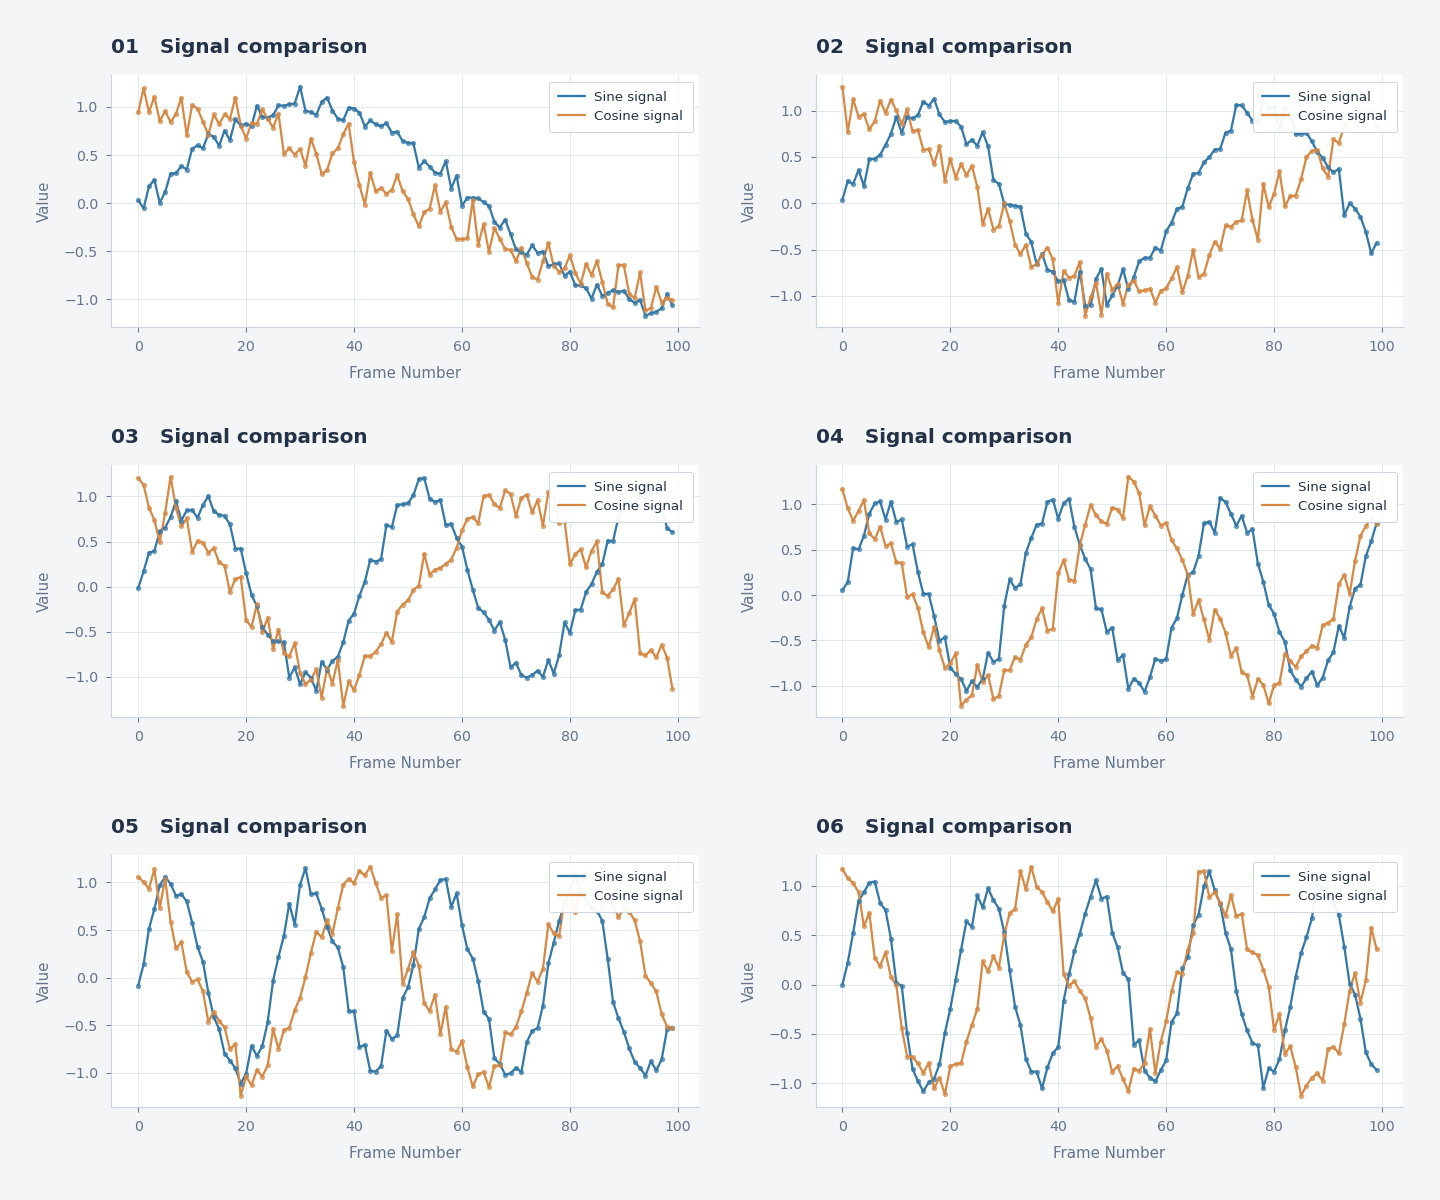
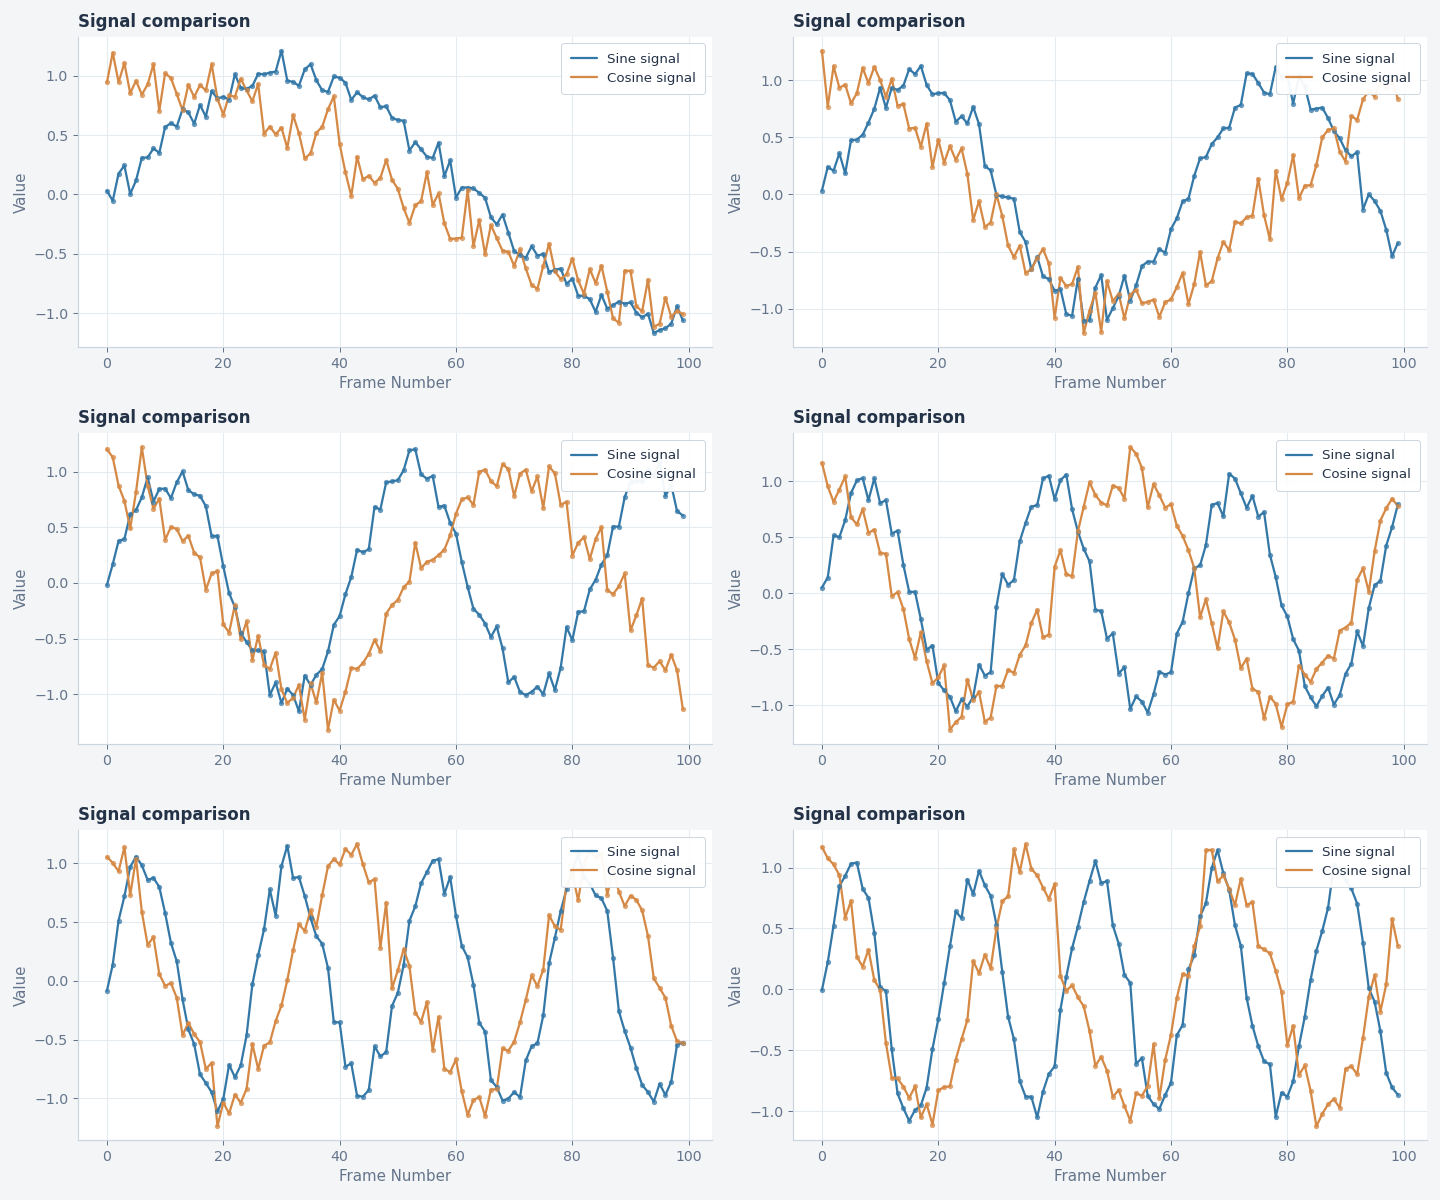
style: expand plot panels and simplify demo headings

diff --git a/interactive_plotting/core.py b/interactive_plotting/core.py
@@ -1106,7 +1106,7 @@ def create_interactive_plot(series: Sequence[SeriesData]) -> PlotSession:
                     None,
                 )
                 if panel_title:
-                    ax.set_title(panel_title, pad=13, fontsize=12,
+                    ax.set_title(panel_title, pad=6, fontsize=10,
                                  fontweight="semibold", color=TEXT,
                                  fontfamily=families)
                     ax.title.set_horizontalalignment("left")
@@ -1123,7 +1123,7 @@ def create_interactive_plot(series: Sequence[SeriesData]) -> PlotSession:
                 legend.set_draggable(True)
                 legends.append(legend)
 
-        figure.tight_layout(pad=2.2, h_pad=2.6, w_pad=2.5)
+        figure.tight_layout(pad=0.8, h_pad=1.0, w_pad=1.0)
         dispatcher = FigureDispatcher(figure, controllers, axes)
         return PlotSession(figure, tuple(controllers), tuple(axes), dispatcher)
     except Exception:

diff --git a/interactive_plotting/demo.py b/interactive_plotting/demo.py
@@ -30,7 +30,7 @@ def make_demo_series(seed=None) -> list[SeriesData]:
                     label="Sine signal",
                     panel=panel,
                     color="#3478A8",
-                    panel_title=f"{signal_number:02d}   Signal comparison",
+                    panel_title="Signal comparison",
                 ),
                 SeriesData(
                     frames=frames,
@@ -38,7 +38,7 @@ def make_demo_series(seed=None) -> list[SeriesData]:
                     label="Cosine signal",
                     panel=panel,
                     color="#D58945",
-                    panel_title=f"{signal_number:02d}   Signal comparison",
+                    panel_title="Signal comparison",
                 ),
             ]
         )

diff --git a/interactive_plotting/style.py b/interactive_plotting/style.py
@@ -31,12 +31,12 @@ def style_axes(axis: Axes, families: list[str]) -> None:
         spine.set_color(BORDER)
         spine.set_linewidth(0.7)
     axis.tick_params(axis="both", colors=MUTED, labelsize=8.5, length=3,
-                     width=0.6, pad=5)
+                     width=0.6, pad=3)
     for coordinate_axis in (axis.xaxis, axis.yaxis):
         coordinate_axis.label.set_fontfamily(families)
         coordinate_axis.label.set_fontsize(9)
         coordinate_axis.label.set_color(MUTED)
-        coordinate_axis.labelpad = 7
+        coordinate_axis.labelpad = 3
         coordinate_axis.offsetText.set_fontfamily(families)
         coordinate_axis.offsetText.set_fontsize(8.5)
         coordinate_axis.offsetText.set_color(MUTED)

diff --git a/openspec/changes/refine-plot-visual-design/design.md b/openspec/changes/refine-plot-visual-design/design.md
@@ -12,7 +12,7 @@
 
 1. 采用轻量分析仪表风格：画布候选色 #F3F5F7、绘图区白色、正文 #243247、辅助文字 #64748B、网格 #E5EAF0；演示系列采用 #3478A8 与 #D58945。颜色可在视觉验收中微调。相比深色主题，这种风格更适合日间分析与导出打印。保留焦点金色圆环。
 2. 通过内部样式常量或小型 helper 统一 artist 属性，不调用全局 plt.style.use。字体使用 DejaVu Sans，中文按已安装字体选择 Microsoft YaHei、SimHei、PingFang SC 或 Noto Sans CJK SC 等回退；不硬编码字体文件位置。必要的 rc_context 只覆盖构建阶段，并验证后续 tooltip 的字体不依赖该临时上下文。
-3. 标题左对齐并适度加粗，弱化上右边框，细实线网格置于数据后方；降低散点视觉权重，保持圆形数据标记和既有 6 px 命中范围。tooltip 使用白色不透明背景、浅边框和清晰文字，保留 Frame/Value 与拖动逻辑。
+3. 标题左对齐并适度加粗；按用户试用反馈，标题缩小为 10 pt、标题间距减为 6 pt，演示标题只保留 Signal comparison，不添加序号。收紧 tight_layout 的外边距与面板间距，以及轴标签/刻度的间距，保留所有坐标说明；窗口尺寸与数据范围不变。弱化上右边框，细实线网格置于数据后方；降低散点视觉权重，保持圆形数据标记和既有 6 px 命中范围。tooltip 使用白色不透明背景、浅边框和清晰文字，保留 Frame/Value 与拖动逻辑。
 4. 未指定 line_color 时使用 item.color，显式 line_color/line_alpha 原样保留。只修改演示系列标签与配色，不修改 SeriesData 公共字段默认值。演示标签使用有意义的系列名称，不继续写失真的 red/blue 字样。
 5. 按面板数设置合理初始尺寸和间距，去掉 demo 中与核心冲突的重复布局处理。优先保留现有静态布局方式，避免持续 constrained_layout 在放大时重排 axes。布局捕获必须位于最终初始排版之后；尽量不新增图级装饰，避免放大视图重叠。
 6. 事件顺序保持现状：工具栏活动/正在拖 tooltip 时先处理互斥；图例命中优先，其次 tooltip 命中，再处理 axes 双击与数据点点击。移动事件保持工具栏、图例拖动、tooltip 拖动优先，再进行悬停。样式 helper 不注册事件，也不修改键盘目标。

diff --git a/openspec/changes/refine-plot-visual-design/tasks.md b/openspec/changes/refine-plot-visual-design/tasks.md
@@ -17,3 +17,8 @@
 - [x] 3.1 交付相同种子的前后对比图与验证报告；逐项列出测试、性能冒烟、OpenSpec、GUI 状态，以及类型检查、Lint/格式、构建、E2E、安全扫描的覆盖缺口。
 - [x] 3.2 按 AGENTS.md 固定基线、待审提交和 merge-base，列明未纳入的未提交修改；交由未参与实现的独立 Reviewer 读取规格并审查，形成含证据与 Critical/Important/Minor 分级的稳定清单，评审回合不改代码。
 - [ ] 3.3 逐项核实意见、记录误报理由并修复成立的问题，修复后执行相关及完整适用检查，必要时重新独立评审；仅在必需验证完成且阻断问题已解决或按规则接受后报告实现完成，不自动归档。
+
+## 4. 用户试用后的布局微调
+
+- [x] 4.1 缩小标题并移除演示标题序号，收紧标题、轴标签和面板间距；以相同 seed、窗口尺寸渲染，测量数据绘图区面积增大并检查文字不重叠。
+- [x] 4.2 重新运行完整测试、Hover 冒烟及 OpenSpec 校验，更新效果图和验证记录；保留尚未完成的真实 GUI 验收状态。

diff --git a/openspec/changes/refine-plot-visual-design/specs/plot-visual-presentation/spec.md b/openspec/changes/refine-plot-visual-design/specs/plot-visual-presentation/spec.md
@@ -13,6 +13,11 @@
 - **WHEN** 用户打开默认六面板演示
 - **THEN** 所有面板呈现一致的浅色样式，标题与刻度层级清晰，曲线比网格醒目
 
+#### Scenario: 紧凑布局优先展示数据
+
+- **WHEN** 用户打开默认六面板演示
+- **THEN** 标题不含自动添加的序号，标题及面板间的留白紧凑，相同窗口尺寸下数据绘图区比初版视觉改造更大，坐标标签和刻度仍完整可读
+
 ### Requirement: 系列颜色对应与显式样式保留
 
 演示系列 SHALL 使用协调且可区分的蓝橙配色。未指定独立连线颜色时，连线 SHALL 与该系列散点和图例颜色对应；调用者显式指定的连线颜色、散点颜色和连线透明度 SHALL 保留。数据值、有效点集合及缺失点断线行为 SHALL 不受视觉修改影响。

diff --git a/openspec/changes/refine-plot-visual-design/proposal.md b/openspec/changes/refine-plot-visual-design/proposal.md
@@ -6,6 +6,7 @@
 
 - 采用浅灰画布、白色绘图区、轻量网格与边框，统一标题、坐标轴、图例和 tooltip 的文字层级及留白。
 - 演示数据采用协调的蓝橙色，曲线、散点和图例对应一致；保留调用者显式指定的颜色与透明度。
+- 按用户试用反馈压小标题、移除演示标题序号、收紧内外留白，扩大相同窗口中的实际数据绘图区。
 - 优化六面板及单面板布局，保留图例拖动、tooltip 拖动和双击放大后的布局恢复。
 - 使用 Matplotlib 自带字体及 Windows 中文字体回退，不引入平台专属路径、新 GUI 框架或外部字体下载。
 - 固定随机种子生成前后对比图，执行已有交互回归并记录 QtAgg 与 Windows 验证边界。
